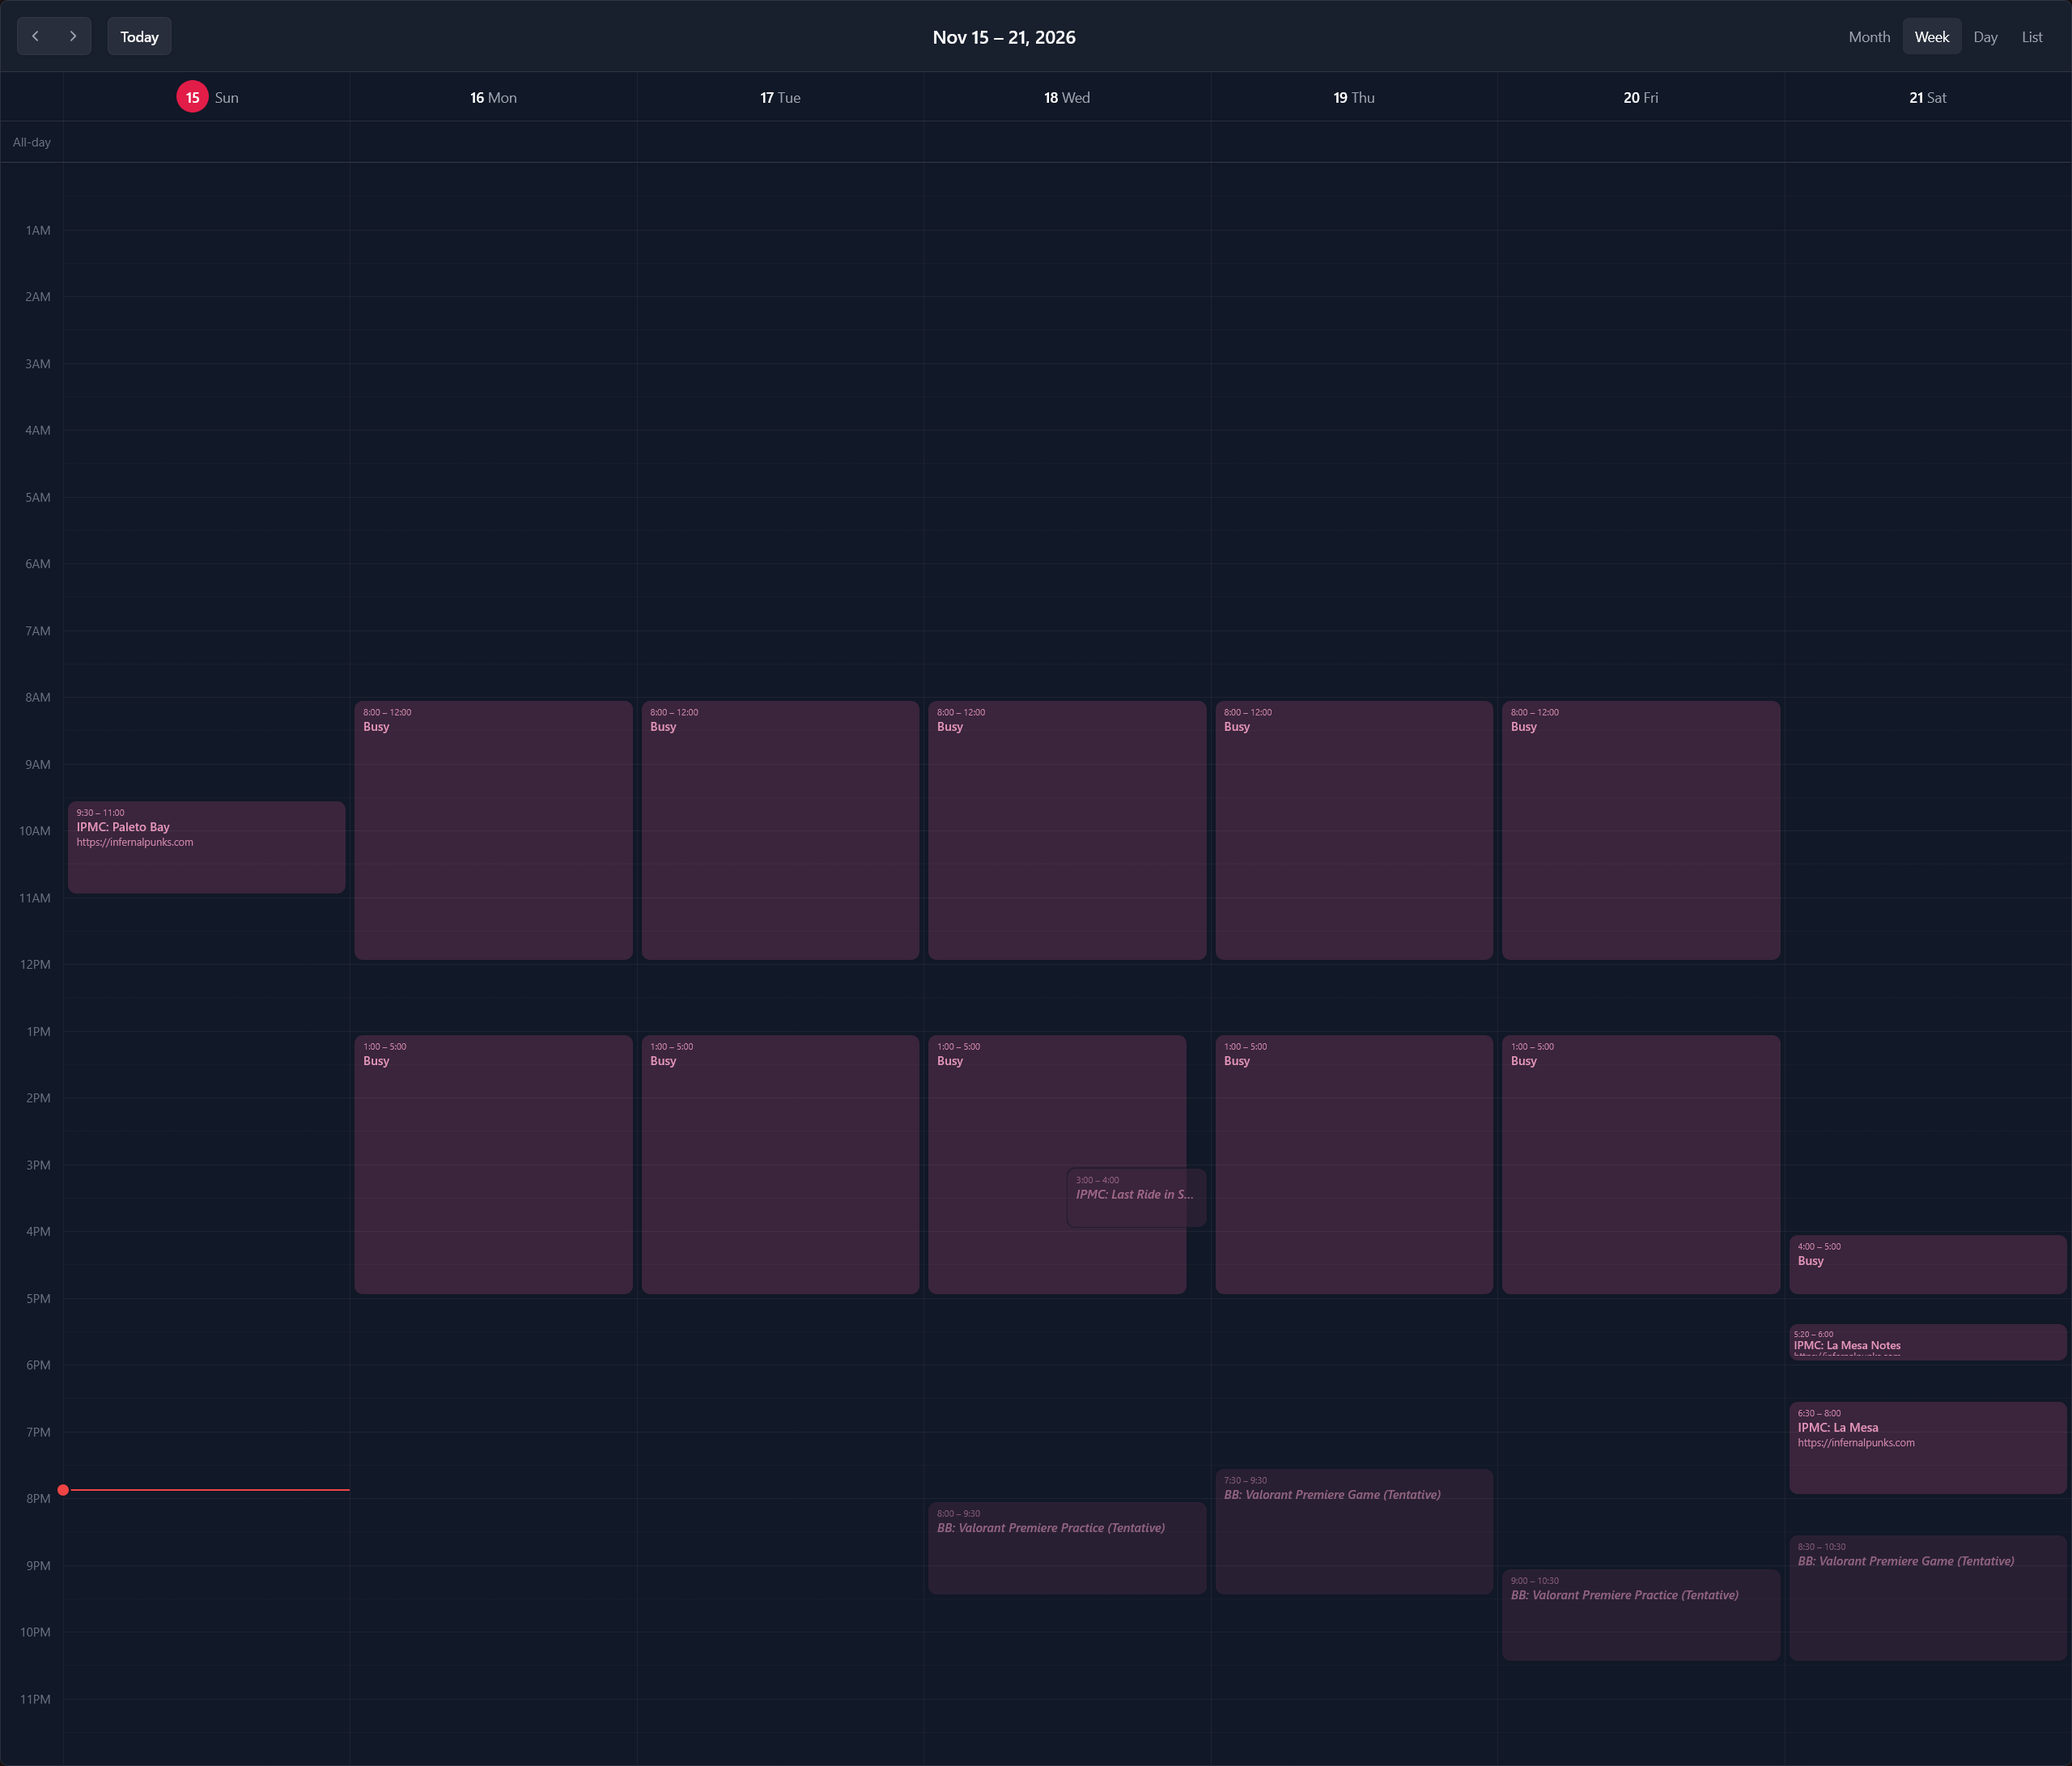
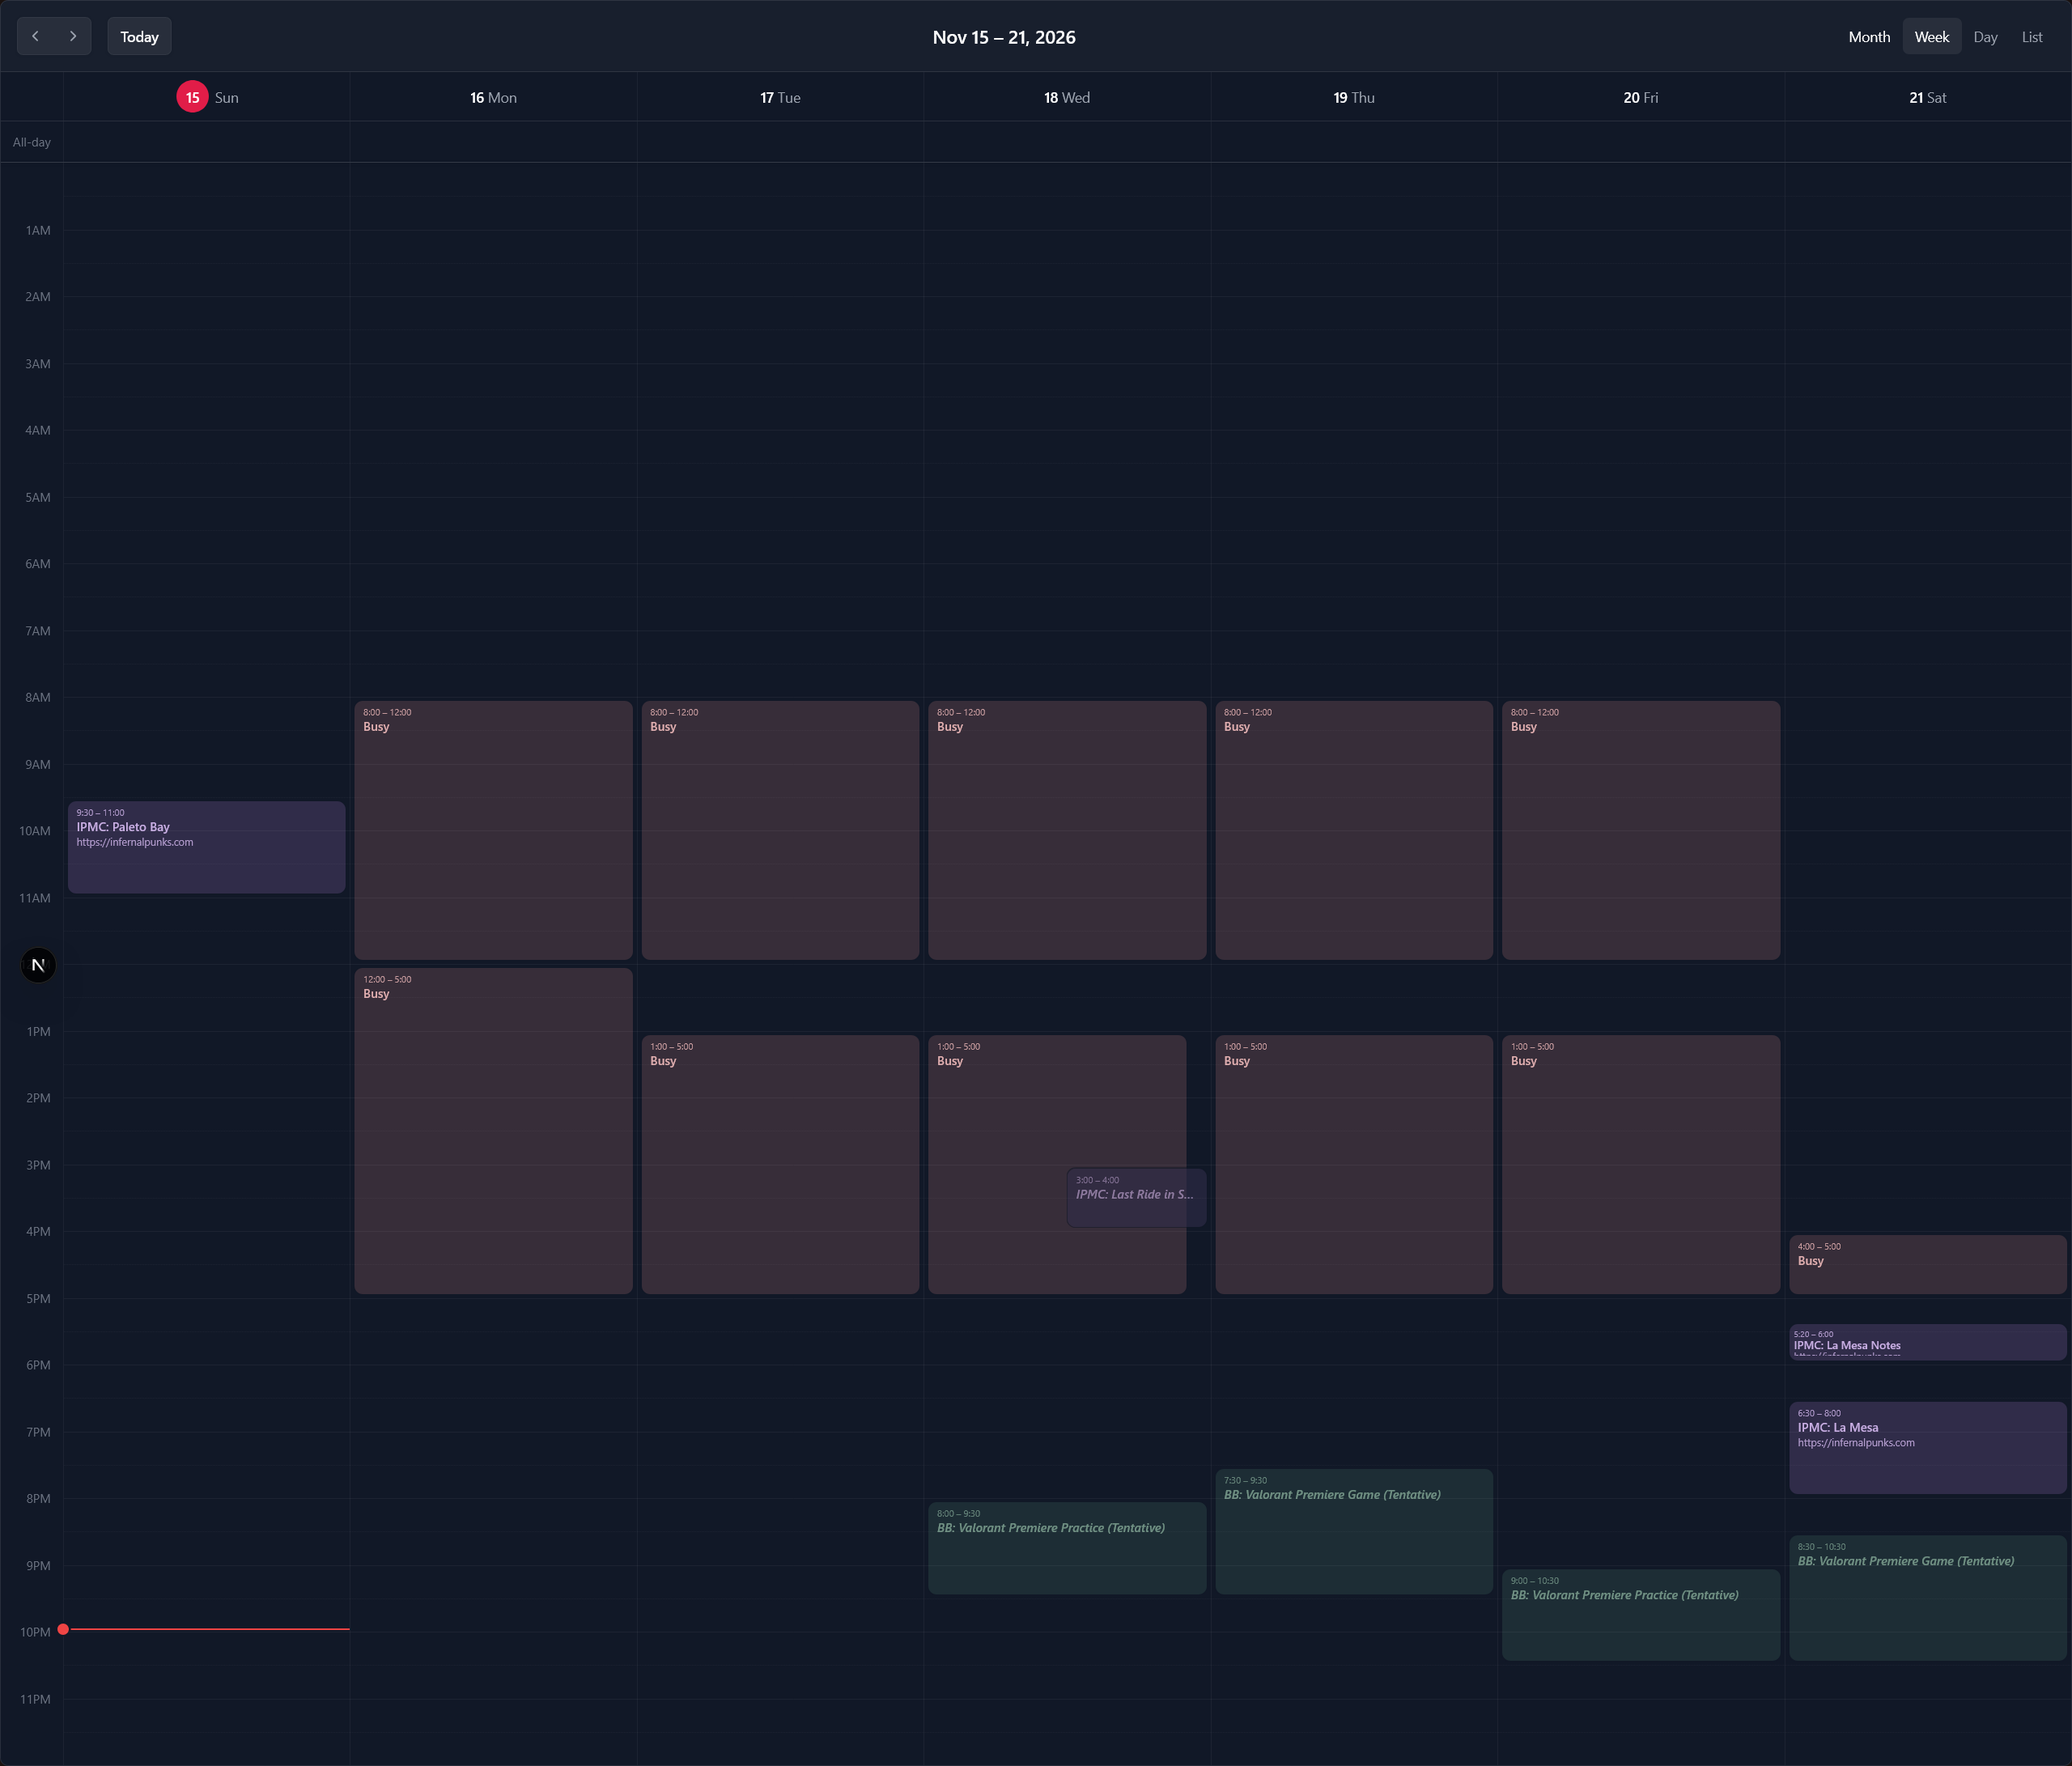
feat: [GH-0031] Add Differing Calendar Colors (#32)

Changed region(s): [[0.1562, 0.5298, 0.3125, 0.5921], [0.875, 0.7479, 0.9062, 0.7791], [0.0, 0.5298, 0.0312, 0.561]]

diff --git a/src/app/(api)/api/Events.ts b/src/app/(api)/api/Events.ts
@@ -10,6 +10,7 @@ export type PublicEvent = {
     end?: string;
     allDay: boolean;
     tentative?: boolean;
+    calendarIndex: number; // color tracking
 };
 
 // prevent like remote code execution or something
@@ -30,7 +31,7 @@ const toPlainText = (raw?: string): string | undefined => {
     return text || undefined;
 };
 
-async function getSingleCalendarEvents(calendarUrl : string, ignoreFree: boolean) {
+async function getSingleCalendarEvents(calendarUrl : string, ignoreFree: boolean, calendarIndex: number) {
     const res = await fetch(calendarUrl);
     if (!res.ok) throw new Error(`ICS fetch failed: ${res.status}`);
     const ics = await res.text();
@@ -55,6 +56,7 @@ async function getSingleCalendarEvents(calendarUrl : string, ignoreFree: boolean
             end: e ? (e.isDate ? e.toString() : e.toJSDate().toISOString()) : undefined,
             allDay: s.isDate,
             tentative: isTentative || undefined,
+            calendarIndex: calendarIndex,
         };
     };
 
@@ -68,13 +70,13 @@ export async function getEvents(ignoreFree: boolean = false): Promise<PublicEven
     "use cache";
     cacheLife("minutes"); // re-fetch from Outlook every few minutes
 
-    const calendarUrls = process.env.CALENDAR_ICS_LINK!.split(",");
+    const calendarUrls = process.env.CALENDAR_ICS_LINK!.split(",").map(u => u.trim());
 
     const events = [];
     const occurrences = [];
 
-    for (const calendarUrl of calendarUrls) {
-        const [singleCalendarEvents, singleCalendarOccurrences] = await getSingleCalendarEvents(calendarUrl, ignoreFree);
+    for (const [index, calendarUrl] of calendarUrls.entries()) {
+        const [singleCalendarEvents, singleCalendarOccurrences] = await getSingleCalendarEvents(calendarUrl, ignoreFree, index);
 
         events.push(...singleCalendarEvents);
         occurrences.push(...singleCalendarOccurrences);

diff --git a/src/app/(pages)/_components/calendar/CalendarComponent.tsx b/src/app/(pages)/_components/calendar/CalendarComponent.tsx
@@ -19,6 +19,13 @@ type CalendarComponentProps = {
     events: PublicEvent[];
 }
 
+function calendarColor(index: number) {
+    const hue = ((index * 137.508) % 360).toFixed(1); // golden angle
+    return {
+        color: `hsl(${hue}, 70%, 72%)`,
+    };
+}
+
 const subscribe = () => () => {};
 
 const CalendarComponent = (props: CalendarComponentProps) => {
@@ -33,11 +40,14 @@ const CalendarComponent = (props: CalendarComponentProps) => {
             headerToolbar={{ left: "prev,next today", center: "title", right: "dayGridMonth,timeGridWeek,timeGridDay,listWeek" }}
             views={{
                 timeGridWeek: {
-                    titleFormat: { month: "short", day: "numeric", year: "numeric" }, // "Nov 8 - 14, 2026"
-                    dayHeaderFormat: { weekday: "short", day: "numeric" }, // "S 8", "M 9" etc
+                    titleFormat: { month: "short", day: "numeric", year: "numeric" },
+                    dayHeaderFormat: { weekday: "short", day: "numeric" },
+                },
+                dayGridMonth: {
+                    eventDisplay: 'block',
                 },
             }}
-            events={props.events}
+            events={props.events.map(e => ({ ...e, ...calendarColor(e.calendarIndex) }))}
             height="auto"
             nowIndicator
             eventClass={(arg) => (arg.event.extendedProps.tentative ? styles.Tentative : undefined)}

diff --git a/src/app/(pages)/_components/calendar/CalendarComponent.module.scss b/src/app/(pages)/_components/calendar/CalendarComponent.module.scss
@@ -1,6 +1,7 @@
 .Tentative {
   opacity: 0.6;
   border-style: dashed;
+  border-color: var(--fc-event-color);
 }
 
 .Tentative .Title {
